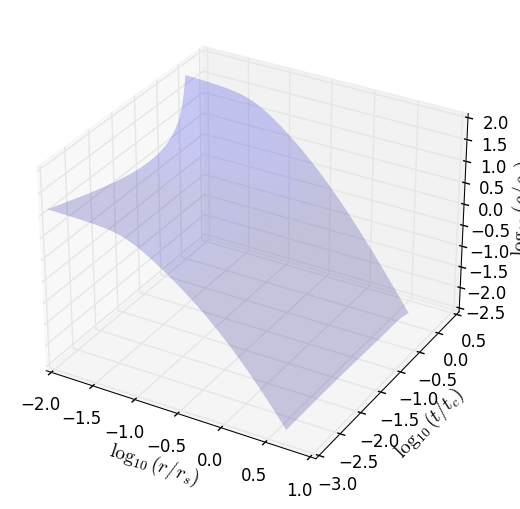
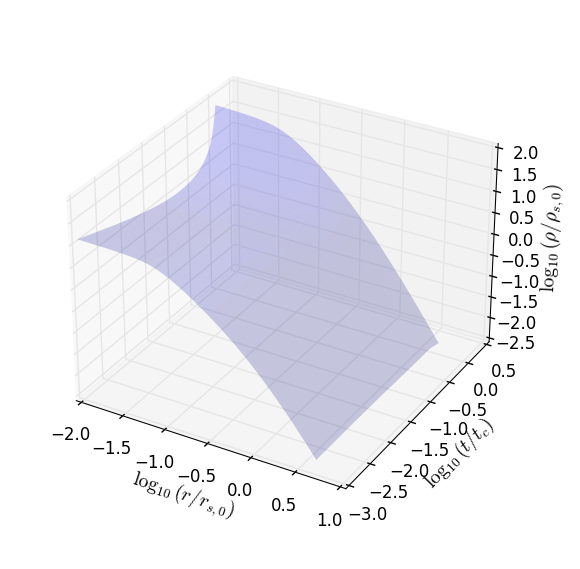
update

diff --git a/demo.py b/demo.py
@@ -58,10 +58,10 @@ fig = plt.figure()
 ax = fig.add_subplot(111, projection='3d')
 ax.plot_surface(np.log10(R), np.log10(TR), np.log10(Density), color='b',alpha=0.2, linewidth=0)
 
-ax.set_xlabel(r'$\log_{10}(r/r_s)$',fontsize=14)
-ax.set_ylabel(r'$\log_{10}(t/t_c)$',fontsize=14)
-ax.set_zlabel(r"$\log_{10}(\rho/\rho_s)$",fontsize=14)
+ax.set_xlabel(r'$\log_{10}(r/r_{s,0})$',fontsize=14)
+ax.set_ylabel(r'$\log_{10}(t/t_{c})$',fontsize=14)
+ax.set_zlabel(r"$\log_{10}(\rho/\rho_{s,0})$",fontsize=14)
 
 plt.show()
 
-fig.savefig('figs/demo.png', bbox_inches='tight')
+fig.savefig('figs/demo.png', bbox_inches='tight', pad_inches=0.4)
